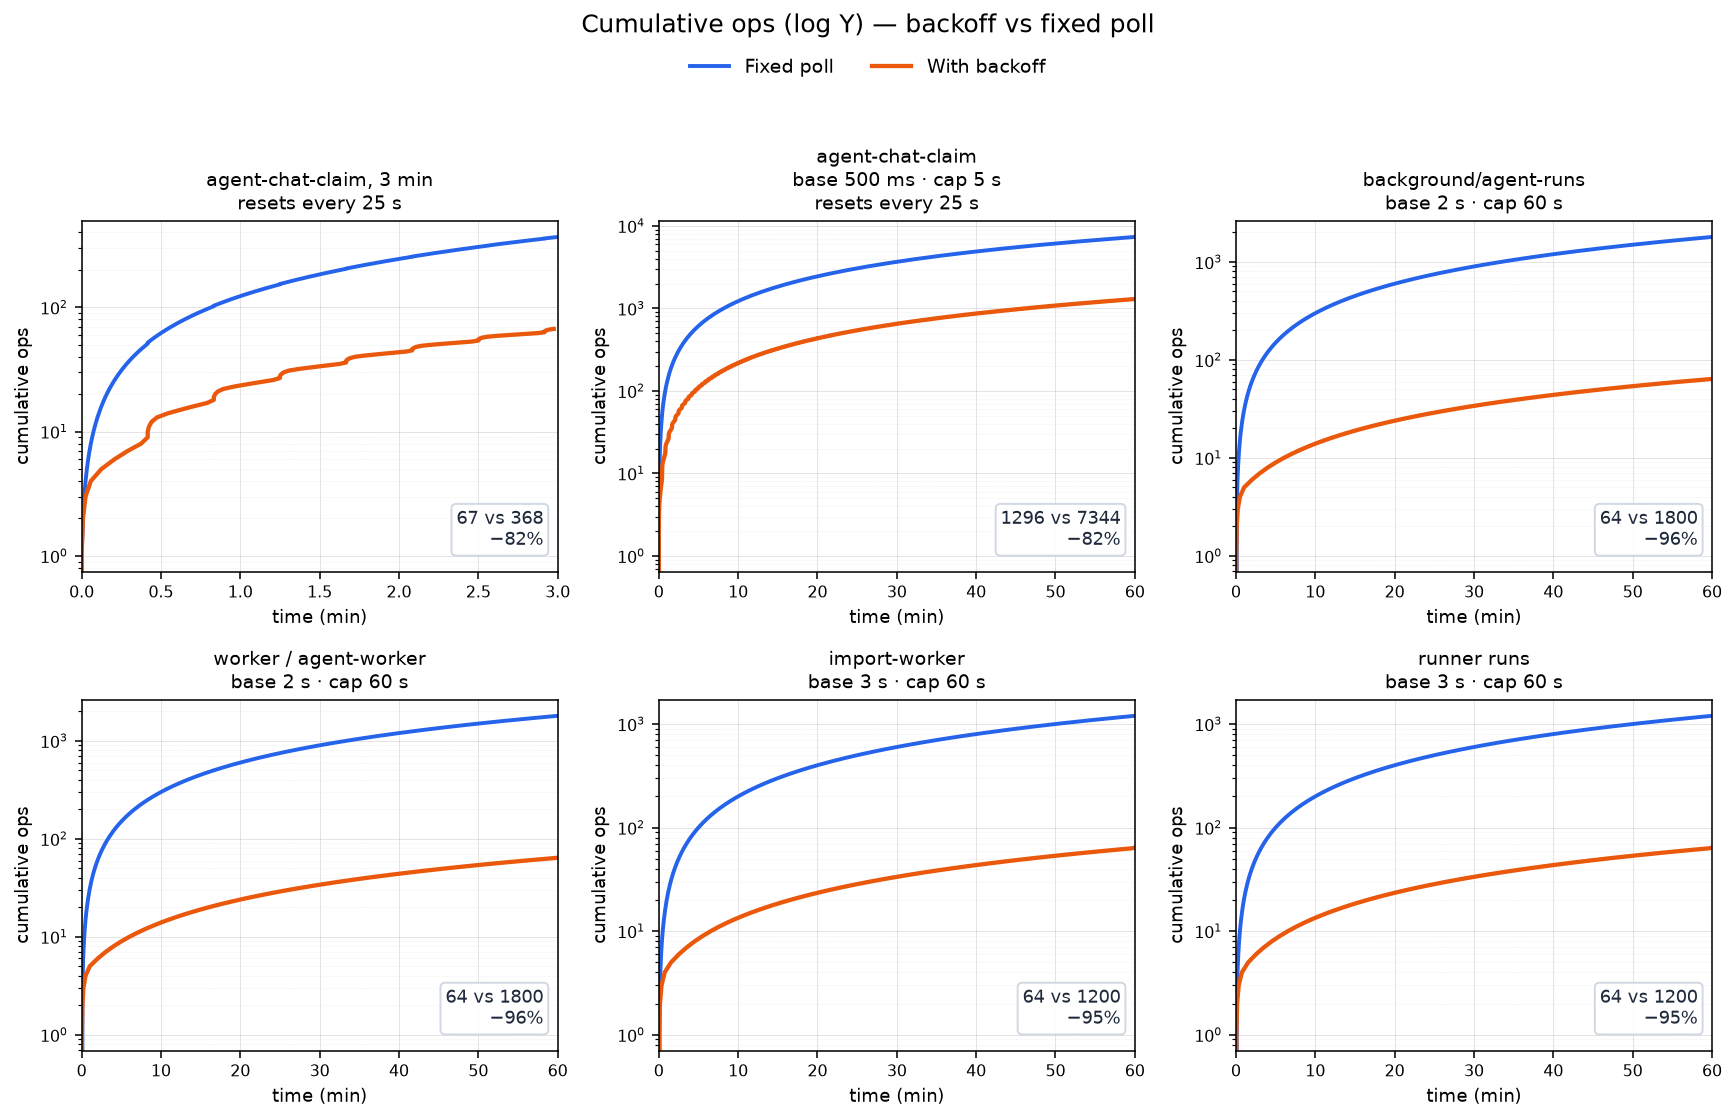
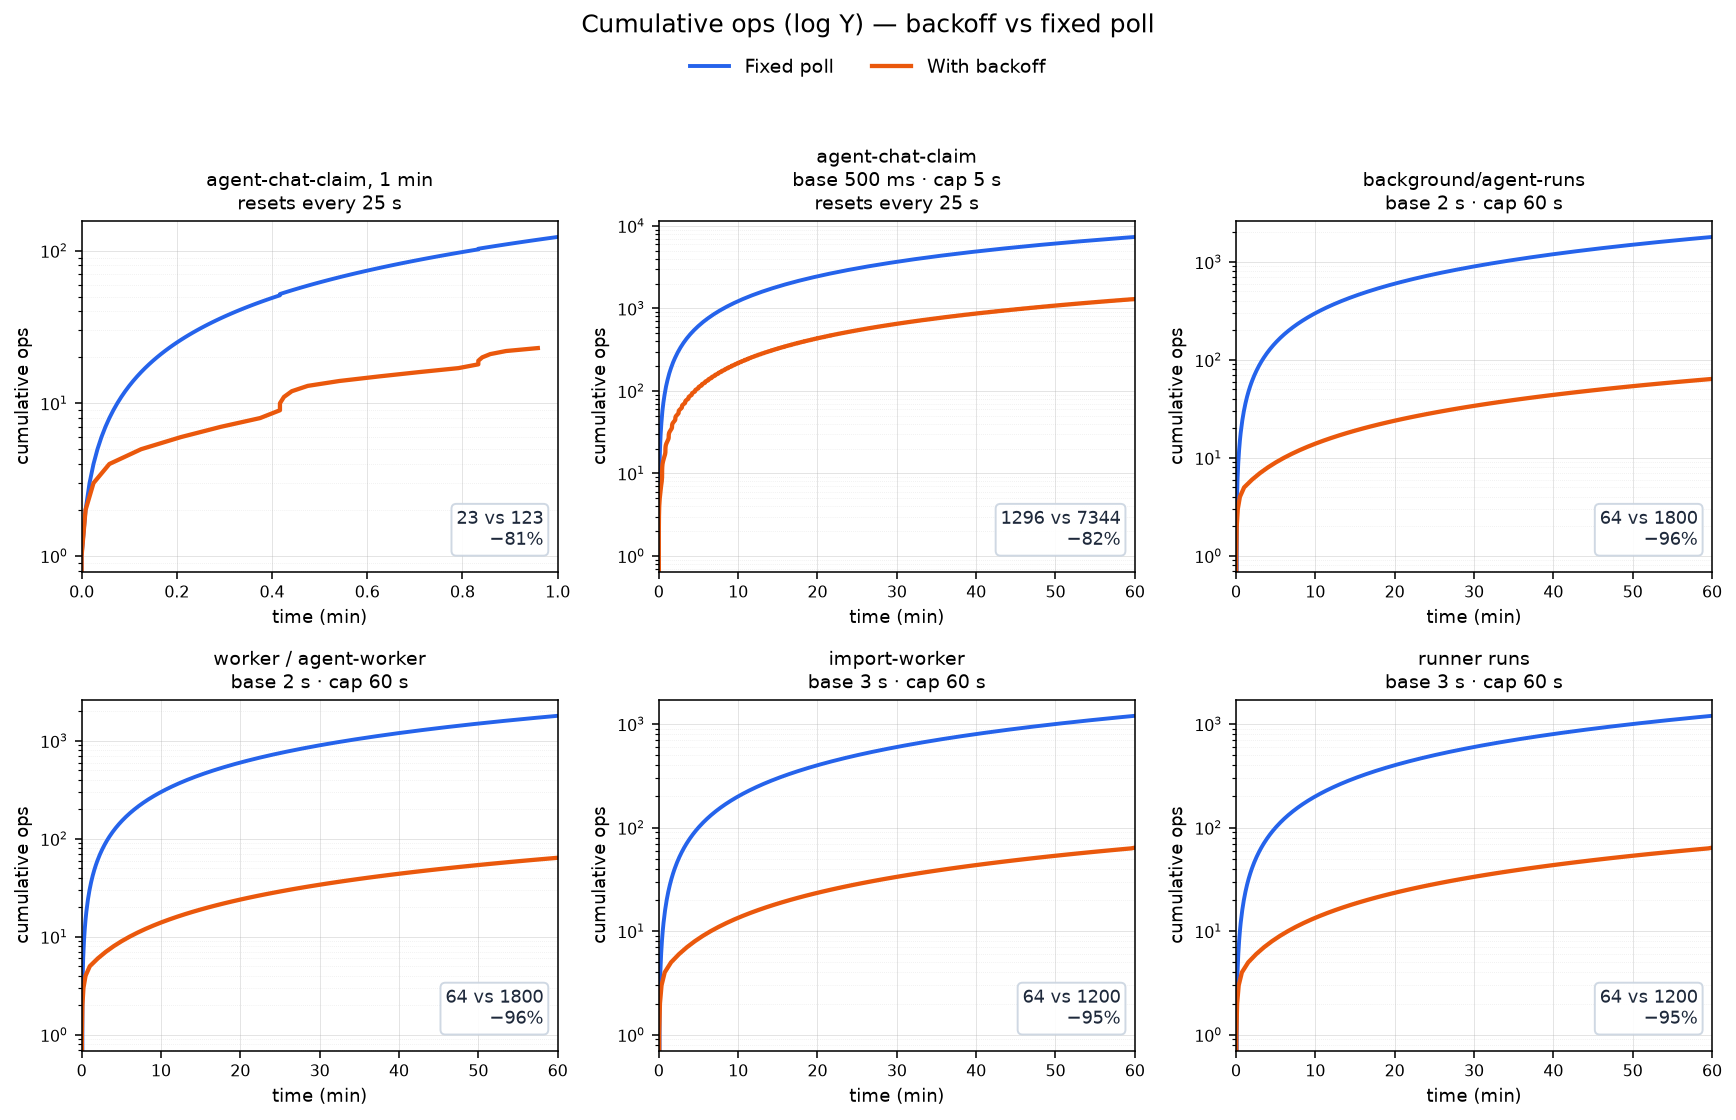
docs: zoom the chat idle chart to the first minute

Changed region(s): [[0.0311, 0.2812, 0.3111, 0.4688], [0.0933, 0.2188, 0.28, 0.3125], [0.28, 0.4375, 0.3111, 0.4688]]

diff --git a/docs/dev/plot-idle-poll.py b/docs/dev/plot-idle-poll.py
@@ -39,15 +39,15 @@ except ImportError as err:
 # the base. The other loops keep their streak across ticks, so their window is 0.
 CHAT_CLAIM_WAIT_MS = 25_000
 # title, base ms, cap ms, claim window ms, horizon ms (0 = the figure horizon).
-# The first panel is the chat claim over 3 minutes, so the 25 s reset is visible.
+# The first panel is the chat claim over 1 minute, so the 25 s reset is visible.
 # The second is that same loop over the full horizon.
 LOOPS: list[tuple[str, int, int, int, int]] = [
     (
-        "agent-chat-claim, 3 min\nresets every 25 s",
+        "agent-chat-claim, 1 min\nresets every 25 s",
         500,
         5_000,
         CHAT_CLAIM_WAIT_MS,
-        3 * 60_000,
+        60_000,
     ),
     (
         "agent-chat-claim\nbase 500 ms · cap 5 s\nresets every 25 s",

diff --git a/docs/idle-poll/README.md b/docs/idle-poll/README.md
@@ -28,7 +28,7 @@ the [developer notes](../dev/idle-poll.md).
 ## Idle cost over one hour
 
 Blue is the old fixed interval; orange is backoff. The first panel is the chat claim
-over 3 minutes, so each 25 s reset is on the axis. The next panel is that same
+over 1 minute, so each 25 s reset is on the axis. The next panel is that same
 loop over the full hour.
 
 ![Cumulative ops over 1 h, linear Y](cumulative-1h-linear.png)
